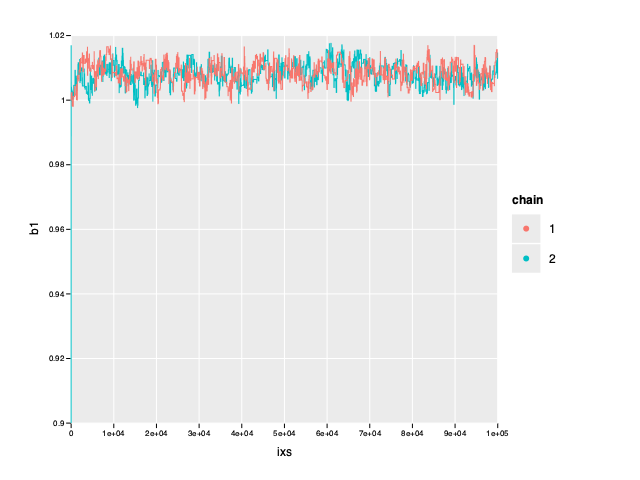
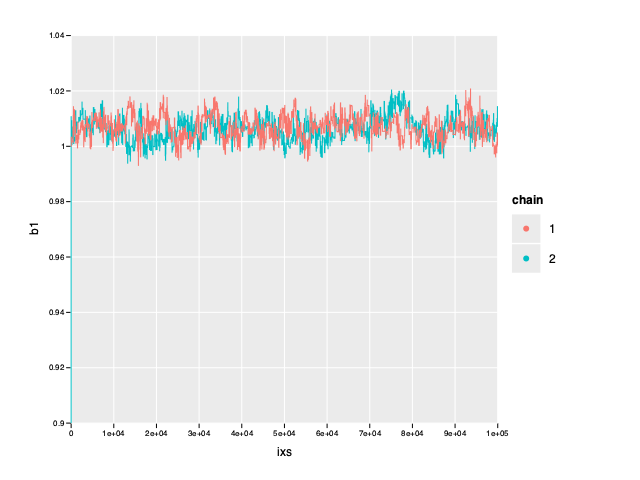
Typo

diff --git a/index.html b/index.html
@@ -270,7 +270,7 @@ StatusSuccess output of write_to_png
 <p>Initially the mcmc chain may spend time exploring unlikely regions of
 parameter space. We can get a better approximation of the posterior if we
 exclude these early steps in the chain. These excluded samples are referred to<br />
-as the burnin. A burnin of $10%$ seems to work well with our informative priors
+as the burnin. A burnin of 10% seems to work well with our informative priors
 and starting values.</p>
 <pre><code class="nim hljs"><span class="hljs-keyword">var</span>
   burnin = (nSamples.<span class="hljs-built_in">float</span> * <span class="hljs-number">0.1</span> + <span class="hljs-number">1</span>).<span class="hljs-built_in">int</span>
@@ -326,9 +326,9 @@ the mean. Let's see how close these values are to the true values of the paramet
 <span class="hljs-keyword">echo</span> meanB0
 <span class="hljs-keyword">echo</span> meanB1
 <span class="hljs-keyword">echo</span> meanSd</code></pre>
-<pre><samp>-0.3239560905850797
-1.008189709400152
-0.849210855656735
+<pre><samp>-0.4546959443132059
+1.006589253428347
+1.085232376715402
 </samp></pre>
 <h1>Credible Intervals</h1>
 <p>We The means give us a point estimate for our parameter values but they tell us
@@ -370,9 +370,9 @@ Credible interval threshold values are completely arbitrary.</p>
 <span class="hljs-keyword">echo</span> b0EtiMin, <span class="hljs-string">&quot; &quot;</span>, b0EtiMax
 <span class="hljs-keyword">echo</span> b1EtiMin, <span class="hljs-string">&quot; &quot;</span>, b1EtiMax
 <span class="hljs-keyword">echo</span> sdEtiMin, <span class="hljs-string">&quot; &quot;</span>, sdEtiMax</code></pre>
-<pre><samp>-0.6170517917322343 -0.008467188688193572
-1.002991915598452 1.013250364425417
-0.7541564440854457 0.9540643872406819
+<pre><samp>-0.889405885732931 -0.03709575172212148
+0.9998389512522882 1.013916077746567
+0.9610600812800236 1.219309894634645
 </samp></pre>
 <h2>Highest Density Interval</h2>
 <pre><code class="nim hljs"><span class="hljs-keyword">proc</span> hdi(samples: <span class="hljs-built_in">seq</span>[<span class="hljs-built_in">float</span>]; credMass: <span class="hljs-built_in">float</span>): (<span class="hljs-built_in">float</span>, <span class="hljs-built_in">float</span>) =
@@ -396,9 +396,9 @@ Credible interval threshold values are completely arbitrary.</p>
 <span class="hljs-keyword">echo</span> b0HdiMin, <span class="hljs-string">&quot; &quot;</span>, b0HdiMax
 <span class="hljs-keyword">echo</span> b1HdiMin, <span class="hljs-string">&quot; &quot;</span>, b1HdiMax
 <span class="hljs-keyword">echo</span> sdHdiMin, <span class="hljs-string">&quot; &quot;</span>, sdHdiMax</code></pre>
-<pre><samp>-0.5800420499126808 0.0241196910410927
-1.003122485718627 1.013265832517531
-0.7433858302364954 0.9376893572599122
+<pre><samp>-0.821866632494207 0.005055447284897235
+0.9990516637030115 1.012928261163502
+0.9588294141619078 1.211997937847195
 </samp></pre>
 <h1>Standardize Data</h1>
 <p>We might be able to get even better mixing by standardizing the data and
@@ -534,9 +534,9 @@ meanSd = mean(sdBurn)
 <span class="hljs-keyword">echo</span> meanB0
 <span class="hljs-keyword">echo</span> meanB1
 <span class="hljs-keyword">echo</span> meanSd</code></pre>
-<pre><samp>-0.3551125923794411
-1.008640805768852
-0.1152425089023909
+<pre><samp>-0.4895693192658965
+1.007159279800622
+0.2928540388529229
 </samp></pre>
 <h1>Equal Tailed Interval</h1>
 <pre><code class="nim hljs">(b0EtiMin, b0EtiMax) = eti(b0Burn, <span class="hljs-number">0.89</span>)
@@ -545,9 +545,9 @@ meanSd = mean(sdBurn)
 <span class="hljs-keyword">echo</span> b0EtiMin, <span class="hljs-string">&quot; &quot;</span>, b0EtiMax
 <span class="hljs-keyword">echo</span> b1EtiMin, <span class="hljs-string">&quot; &quot;</span>, b1EtiMax
 <span class="hljs-keyword">echo</span> sdEtiMin, <span class="hljs-string">&quot; &quot;</span>, sdEtiMax</code></pre>
-<pre><samp>-0.7372544461462738 0.01703279290945403
-1.002490005593506 1.0148922615613
--0.2466404130246431 0.4890857276583773
+<pre><samp>-0.9446019709928725 -0.03003575532367364
+0.9995686704865067 1.01474769761753
+-0.1365582559727727 0.7460304043056638
 </samp></pre>
 <h1>Highest Density Interval</h1>
 <pre><code class="nim hljs">(b0HdiMin, b0HdiMax) = hdi(b0Burn, <span class="hljs-number">0.89</span>)
@@ -556,9 +556,9 @@ meanSd = mean(sdBurn)
 <span class="hljs-keyword">echo</span> b0HdiMin, <span class="hljs-string">&quot; &quot;</span>, b0HdiMax
 <span class="hljs-keyword">echo</span> b1HdiMin, <span class="hljs-string">&quot; &quot;</span>, b1HdiMax
 <span class="hljs-keyword">echo</span> sdHdiMin, <span class="hljs-string">&quot; &quot;</span>, sdHdiMax</code></pre>
-<pre><samp>-0.7310572080588926 0.02240049916583331
-1.002692477793619 1.015034181780213
--0.2517505112806973 0.4822415687409958
+<pre><samp>-0.9517791451348145 -0.03855780663149488
+0.9996963154660903 1.014846007190409
+-0.1330287312211453 0.7482199787449488
 </samp></pre>
 <h1>Final Note</h1>
 <p>Of course we could have simply and more efficiently done this using least squares regression.
@@ -730,7 +730,7 @@ nbCode:
       likelihoods[i] = ln(normalPdf(y[i], pred, sd))
     <span class="hljs-literal">result</span> = sum(likelihoods) 
 
-
+<span class="hljs-comment">#TODO: Word this better</span>
 nbText: <span class="hljs-string">md&quot;&quot;&quot;
 # Posterior
 We cannot analytically solve the posterior probability distribution of our
@@ -851,7 +851,7 @@ nbText: <span class="hljs-string">md&quot;&quot;&quot;
 Initially the mcmc chain may spend time exploring unlikely regions of 
 parameter space. We can get a better approximation of the posterior if we 
 exclude these early steps in the chain. These excluded samples are referred to   
-as the burnin. A burnin of $10%$ seems to work well with our informative priors 
+as the burnin. A burnin of 10% seems to work well with our informative priors 
 and starting values. 
 &quot;&quot;&quot;</span>
 nbCode:
